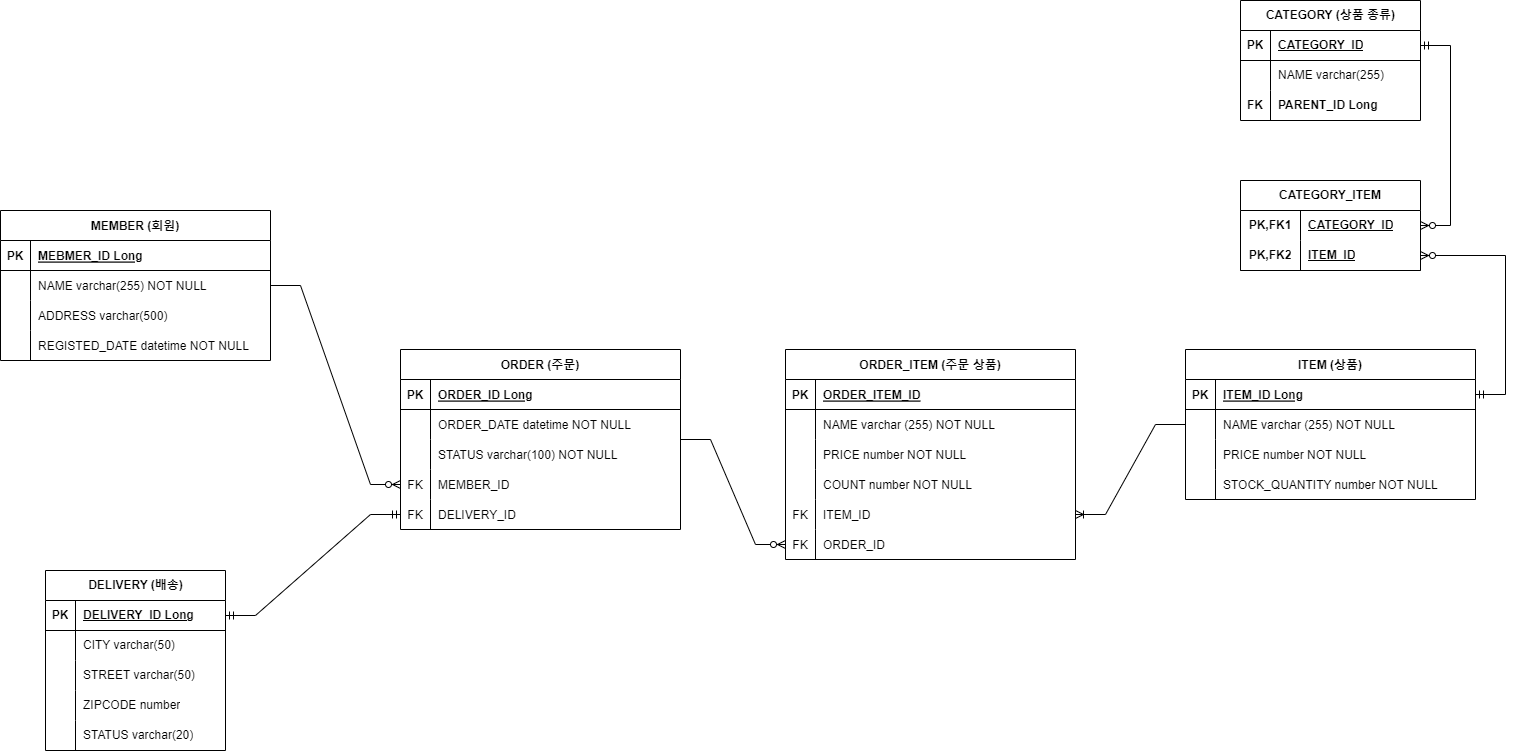
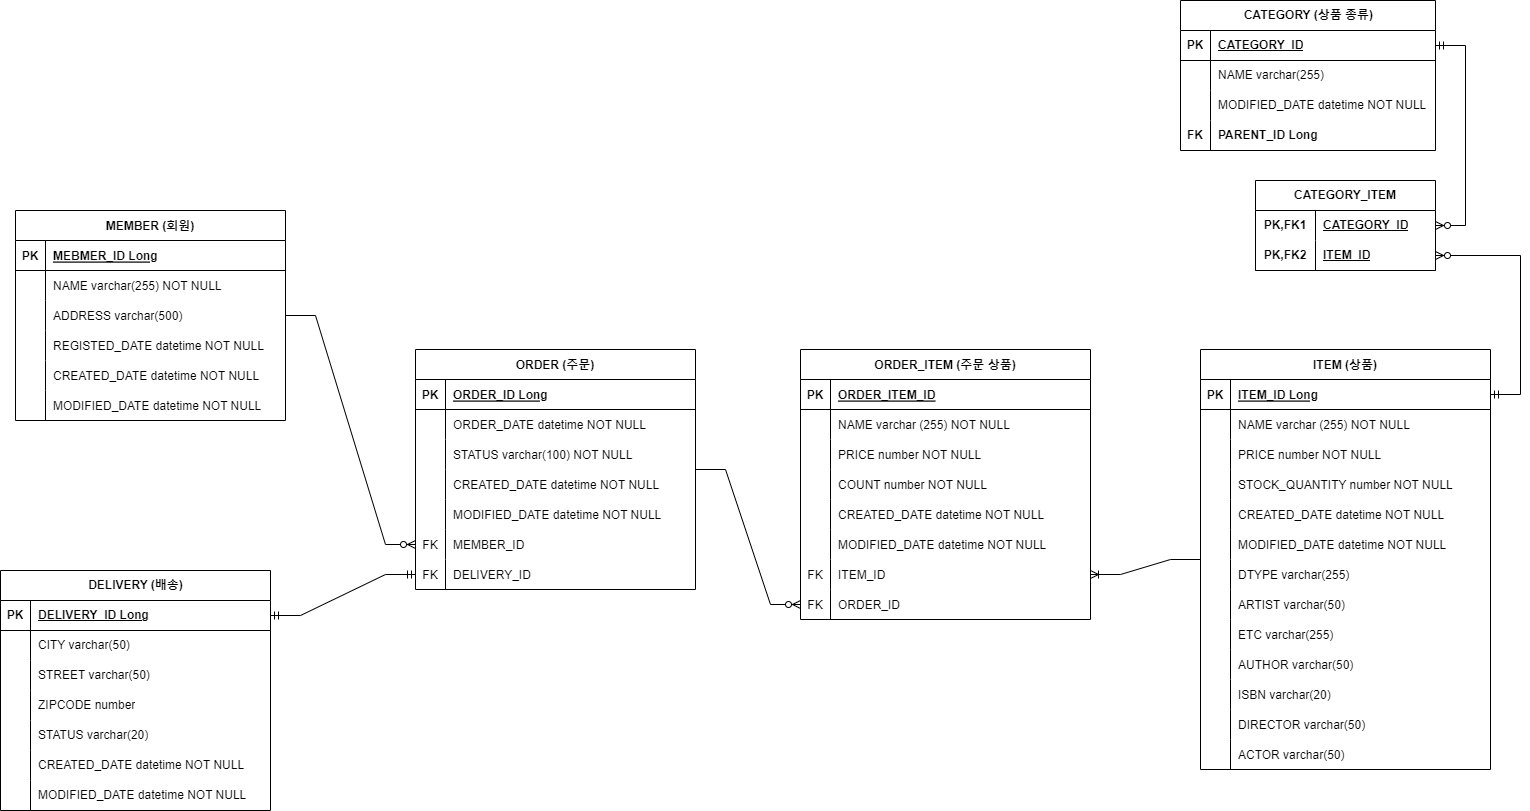
#22 추가 요구사항에 따른 ERD 수정
- ITEM 별 상세 타입 별 데이터 추가
-- Album, Book, Movie 타입
- JoinTable을 제외한 모든 Table에 생성일자, 수정일자 속성 추가
- 수정 요소들에 대한 readme 업데이트

diff --git a/jpa-example-source/readme.md b/jpa-example-source/readme.md
@@ -33,6 +33,8 @@
 - NAME : 회원명
 - ADDRESS : 회원 주소
 - REGISTED_DATE : 가입 일시
+- CREATED_DATE : 생성 일시
+- MODIFIED_DATE : 수정 일시
 
 ### DELIVERY
 
@@ -40,12 +42,23 @@
 - STREET : 도로명 주소
 - ZIPCODE : 우편 번호
 - STATUS : 배송 상태
+- CREATED_DATE : 생성 일시
+- MODIFIED_DATE : 수정 일시
 
 ### ORDER
 
 - ORDER_DATE : 주문 일시
 - STATUS : 주문상태 (대기, 완료, 취소)
 - MEMBER_ID : MEMBER 테이블에 대한 외래키
+- CREATED_DATE : 생성 일시
+- MODIFIED_DATE : 수정 일시
+- DTYPE : 상품 구분 타입
+- ARTIST : Album 타입의 작가명
+- ETC : Album 타입의 기타 속성값
+- AUTHOR : Book 타입의 작가명
+- ISBN : Book 타입의 식별코드
+- DIRECTOR : Movie 타입의 감독명
+- ACTOR : Movie 타입의 배우명
 
 ### ORDER_ITEM
 
@@ -54,17 +67,23 @@
 - COUNT : 주문한 상품 개수
 - ITEM_ID : ITEM 테이블에 대한 외래키
 - ORDER_ID : ORDER 테이블에 대한 외래키
+- CREATED_DATE : 생성 일시
+- MODIFIED_DATE : 수정 일시
 
 ### ITEM
 
 - NAME : 상품명
 - PRICE : 상품 가격
 - STOKC_QUANTITY : 재고량
+- CREATED_DATE : 생성 일시
+- MODIFIED_DATE : 수정 일시
 
 ### CATEGORY
 
 - NAME : 카테고리명
 - PARENT_ID : 상위 카테고리에 대한 외래키
+- CREATED_DATE : 생성 일시
+- MODIFIED_DATE : 수정 일시
 
 ### CATEGORY_ITEM
 
